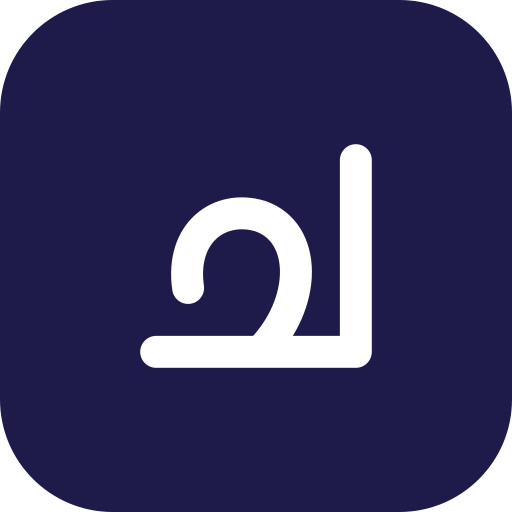
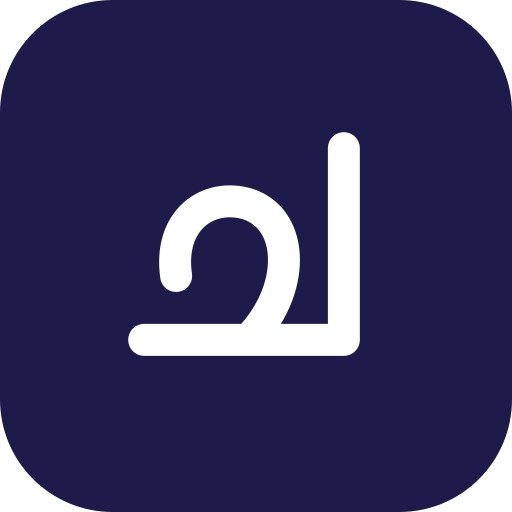
log0 change

Changed region(s): [[0.25, 0.25, 0.75, 0.7188]]

diff --git a/components/screens/TodayTab.tsx b/components/screens/TodayTab.tsx
@@ -2,6 +2,7 @@
 import { useEffect, useState } from 'react';
 import { PrimaryButton, SecondaryButton } from '../ui/Button';
 import { Note } from '../ui/Chip';
+import { Logo } from '../ui/Logo';
 import { HugeNumber } from '../ui/HugeNumber';
 import { SyncStatusPill } from '../ui/SyncStatusPill';
 import { WeekRow, weekWindow, type WeekDay } from '../ui/WeekRow';
@@ -87,18 +88,23 @@ export function TodayTab({ cycle, plan }: { cycle: Cycle; plan: Plan }) {
       <div className="flex-1 overflow-y-auto px-6 pb-4 pt-4">
         <IosHint />
         <header className="flex items-center justify-between">
-          <p className="text-[14px] text-soft">
-            {formatWithWeekday(dateOfDay(cycle.startDate, cycle.currentDay))} ·{' '}
-            <span className="num">
-              Day {cycle.currentDay}/{cycle.totalDays}
-            </span>
-          </p>
+          <div className="flex items-center gap-2">
+            <Logo size={30} />
+            <span className="font-display text-[22px] font-semibold tracking-tight text-[#1E1B4B]">Chelav</span>
+          </div>
           <div className="flex items-center gap-2">
             <SyncStatusPill />
           </div>
         </header>
 
-        <p className="mt-8 text-[15px] text-soft">You can still spend today</p>
+        <p className="mt-5 text-[14px] text-soft">
+          {formatWithWeekday(dateOfDay(cycle.startDate, cycle.currentDay))} ·{' '}
+          <span className="num">
+            Day {cycle.currentDay}/{cycle.totalDays}
+          </span>
+        </p>
+
+        <p className="mt-6 text-[15px] text-soft">You can still spend today</p>
         <HugeNumber value={left} className="mt-1" />
 
         <div className="mt-3 min-h-[48px]">

diff --git a/components/ui/Logo.tsx b/components/ui/Logo.tsx
@@ -11,7 +11,7 @@ export function Logo({ size = 40, className = '' }: { size?: number; className?:
       className={className}
     >
       <rect width="100" height="100" rx="22" fill="#1E1B4B" />
-      <g transform="translate(50 50) scale(0.78) translate(-49 -46)">
+      <g transform="translate(50 50) scale(0.78) translate(-52 -49)">
       <path
         d="M74 22 V70 H24 M32 54 C30 40 40 33 50 36 C62 40 62 58 50 70"
         fill="none"
